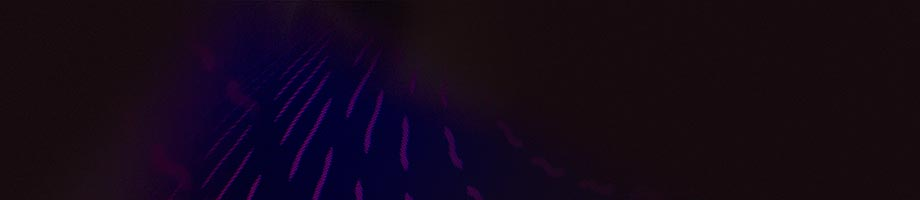
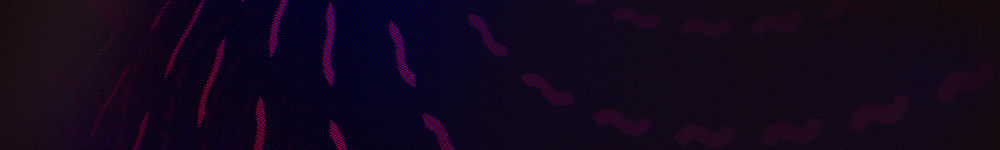
Further style finnessing

diff --git a/templates/tickets-main/ticket-list.html b/templates/tickets-main/ticket-list.html
@@ -2,14 +2,17 @@
 {{ form.hidden_tag() }}
 
 <table class="table tickets btns-table">
-<tr>
-{% if feature_enabled('ISSUE_TICKETS') %}
-  <th class="checkbox-cell"></th>
-{% endif %}
-  <th>Type</th>
-  <th>Status</th>
-</tr>
-
+<thead>
+    <tr>
+    {% if feature_enabled('ISSUE_TICKETS') %}
+      <th class="checkbox-cell"></th>
+    {% endif %}
+      <th>Type</th>
+      <th>Status</th>
+      <th></th>
+    </tr>
+</thead>
+<tbody>
 {%- for t in tickets -%}
 
 <tr class="
@@ -45,14 +48,12 @@
 </td>
 </tr>
 {% endfor -%}
-
+</tbody>
 </table>
 
 {% if show_receipt and feature_enabled('ISSUE_TICKETS') %}
 {{ form.forward(class_="btn btn-default pull-right") }}
 {% else %}
-<div class="well">
-    We'll email you when your e-tickets are ready closer to the event.
-</div>
+<p>We'll email you when your e-tickets are ready closer to the event.</p>
 {% endif %}
 </form>

diff --git a/static/css/_base.scss b/static/css/_base.scss
@@ -72,30 +72,21 @@ header, h2, h3, h4, h5, h6 {
 
 header {
   background-image: url('../images/brand/header.jpg');
-  background-size: 100% auto;
   margin:-20px -15px 0px -15px;
   padding: 20px 15px 0px 15px;
-  height: 220px;
 }
 
 header h1 {
   display: block;
   float: left;
+  margin-bottom: 0;
 }
 
 #logo {
   background: url('../images/brand/logo.png') no-repeat left top;
+  background-size: 350px 125px;
   width: 350px;
   height: 125px;
-}
-
-@media(max-width:550px){
-  #logo {
-    background: url('../images/logo-small.png') no-repeat left top;
-    width: 370px;
-    height: 132px;
-    margin-left: -10px;
-  }
 }
 
 header #header-text {

diff --git a/templates/payment-choose.html b/templates/payment-choose.html
@@ -3,7 +3,6 @@
 {% block title %}Choose Payment{% endblock %}
 {% block body %}
 
-<div class="well">
     {% if admissions %}
     You've selected the following {% if basket|count == 1 %}ticket{% else %}
     {{ basket|count }} tickets{% endif %}:
@@ -30,7 +29,6 @@
             class="btn btn-default">Pay in {% if user_currency == 'GBP' %}Euros (€){% else %}Pounds (£){% endif %}</button>
     </div>
 </form>
-</div>
 
 <form method="post" class="pay-method">
 {{ form.hidden_tag() }}

diff --git a/static/css/_cfp.scss b/static/css/_cfp.scss
@@ -27,8 +27,13 @@
   }
 }
 
+.cfp-types.nav-tabs h4 {
+  color: $highlight-background-text
+}
+
 .cfp-types.nav-tabs > li > a {
-  color: #555555;
+    background-color: $highlight-2-background;
+  color: $highlight-background-text;
   padding-bottom: 9px; /* align tab bottoms */
 }
 
@@ -48,7 +53,7 @@
 
 .cfp-types.nav > li > a:hover,
 .cfp-types.nav > li > a:focus {
-  background-color: #7c1243;
+  background-color: $highlight-background;
 }
 
 .cfp-tab .form-actions {

diff --git a/static/css/_buttons.scss b/static/css/_buttons.scss
@@ -1,9 +1,18 @@
-
-
 /* Show the hover borders by default to avoid bleeding */
 .btn-primary {
-    border: 1px solid #285e8e;
+    background-color: #7c1243;
+    border: 1px solid #33071C;
 }
+
+.btn-primary:hover,
+.btn-primary:focus,
+.btn-primary:active,
+.btn-primary.active,
+.open>.dropdown-toggle.btn-primary {
+    background-color: #33071C;
+    border: 1px solid #33071C;
+}
+
 
 .btn-default {
   border: 1px solid #adadad;

diff --git a/templates/tickets-choose.html b/templates/tickets-choose.html
@@ -104,9 +104,9 @@ Buy Items
 
 <div class="form-actions pull-right">
     {% if admissions %}
-    {{ form.buy(class_="btn btn-success btn-lg debounce") }}
+    {{ form.buy(class_="btn btn-primary btn-lg debounce") }}
     {% else %}
-    {{ form.buy_other(class_="btn btn-success btn-lg debounce") }}
+    {{ form.buy_other(class_="btn btn-primary btn-lg debounce") }}
     {% endif %}
 </div>
 

diff --git a/templates/cfp/main.html b/templates/cfp/main.html
@@ -158,7 +158,7 @@
       <p>&nbsp;</p>
 
       <div class="form-actions">
-        <button type="submit" name="Create" class="btn btn-success btn-lg pull-right debounce">Submit proposal</button>
+        <button type="submit" name="Create" class="btn btn-primary btn-lg pull-right debounce">Submit proposal</button>
       </div>
       <div class="clearfix"></div>
     </form>

diff --git a/templates/tickets-main/payments.html b/templates/tickets-main/payments.html
@@ -1,10 +1,12 @@
 <table class="table btns-table">
+<thead>
   <tr>
     <th>Type</th>
     <th>Amount</th>
     <th>Progress</th>
     <th colspan="2"></th>
-  </tr>
+</tr>
+</thead>
   {% for p in payments %}
     <tr class="{{- loop.cycle('odd', 'even') -}}">
       <td>

diff --git a/templates/tickets-main/main.html b/templates/tickets-main/main.html
@@ -39,7 +39,7 @@
 {% endif %}
 
 <div class="pull-right">
-    <a href="{{ url_for('tickets.choose') }}" class="btn btn-success">Buy another ticket</a>
+    <a href="{{ url_for('tickets.choose') }}" class="btn btn-primary">Buy another ticket</a>
 </div>
 
 {% endblock %}

diff --git a/static/css/_tables.scss b/static/css/_tables.scss
@@ -66,7 +66,7 @@ tr.odd {
 
 .btns-table > tbody > tr > td {
     vertical-align: inherit;
-    padding: 11px 8px;
+    padding-bottom: 11px;
 }
 
 .btns-table > tbody > tr > td .btn {

diff --git a/static/css/_variables.scss b/static/css/_variables.scss
@@ -1,4 +1,3 @@
-
 $header-font-stack:             "Raleway","Helvetica Neue",Helvetica,Arial,sans-serif;
 
 $body-background:               #3c3c3c;
